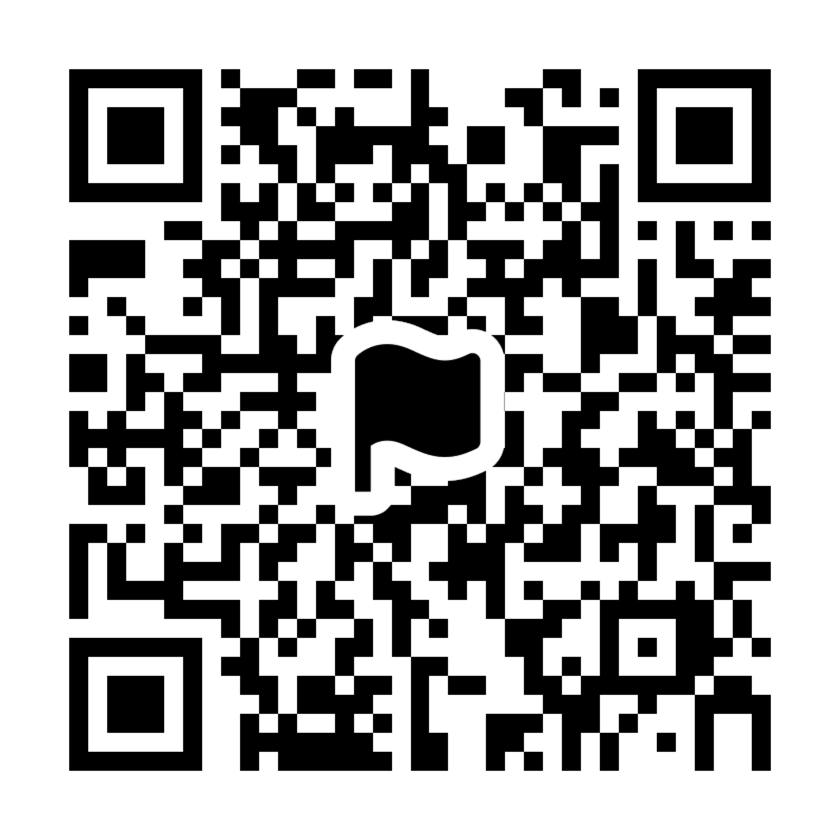
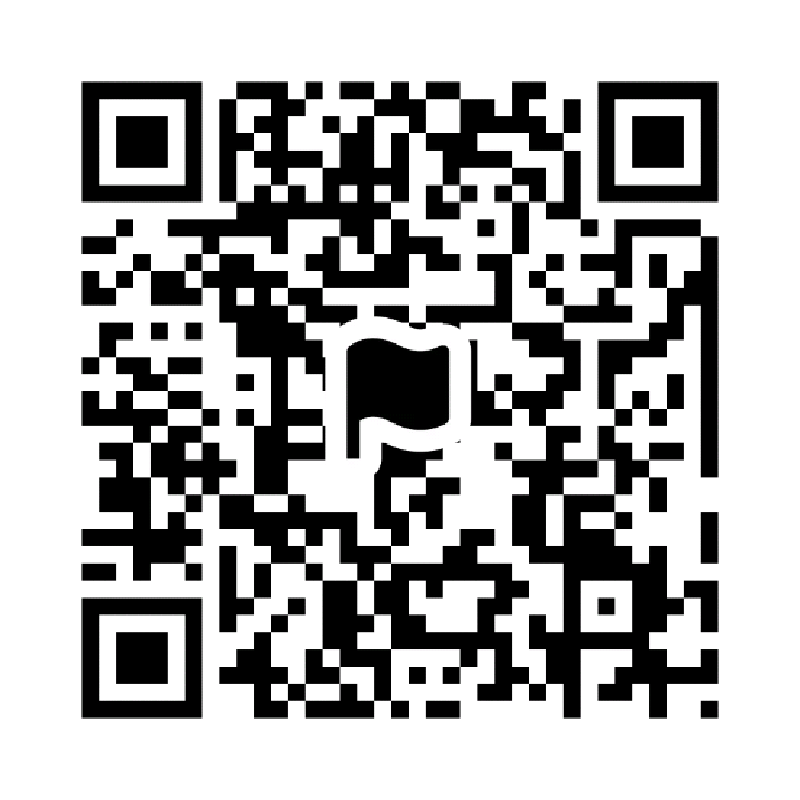
chore: update ECC official team chat invite

diff --git a/src/lib/eccAccess.ts b/src/lib/eccAccess.ts
@@ -47,7 +47,7 @@ export const eccRolesTable = "ecc_roles";
 export const eccRoleColumns =
   "id,created_at,updated_at,email,name,avatar_url,role,is_official_member,payment_confirmed,payment_confirmed_by,payment_confirmed_at,official_member_status,admin_status,admin_requested_at,admin_approved_by,admin_approved_at,super_admin_status,super_admin_requested_at,super_admin_approved_by,super_admin_approved_at";
 
-export const defaultEccOfficialTeamChatUrl = "https://invite.kakao.com/tc/d3m2UO008Y";
+export const defaultEccOfficialTeamChatUrl = "https://invite.kakao.com/tc/RQerLbSgvH";
 
 const roleRank: Record<EccRole, number> = {
   user: 1,

diff --git a/README.md b/README.md
@@ -422,7 +422,7 @@ Add these environment variables in Vercel when appropriate:
 ```bash
 DEVELOPER_EMAILS=developer@example.com
 SUPER_ADMIN_EMAILS=superadmin@example.com
-ECC_OFFICIAL_TEAM_CHAT_URL=https://invite.kakao.com/tc/d3m2UO008Y
+ECC_OFFICIAL_TEAM_CHAT_URL=https://invite.kakao.com/tc/RQerLbSgvH
 ```
 
 Protected ECC routes:
